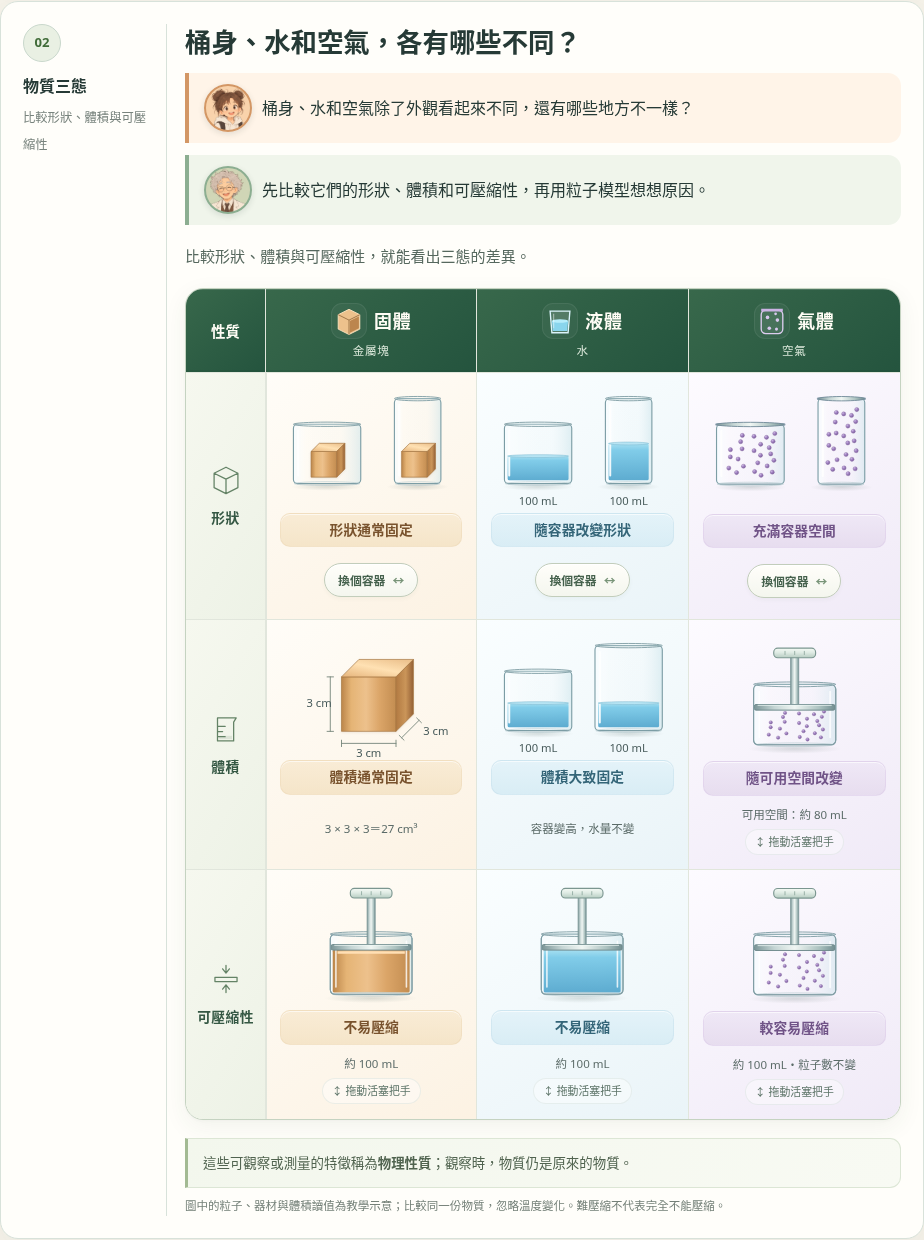
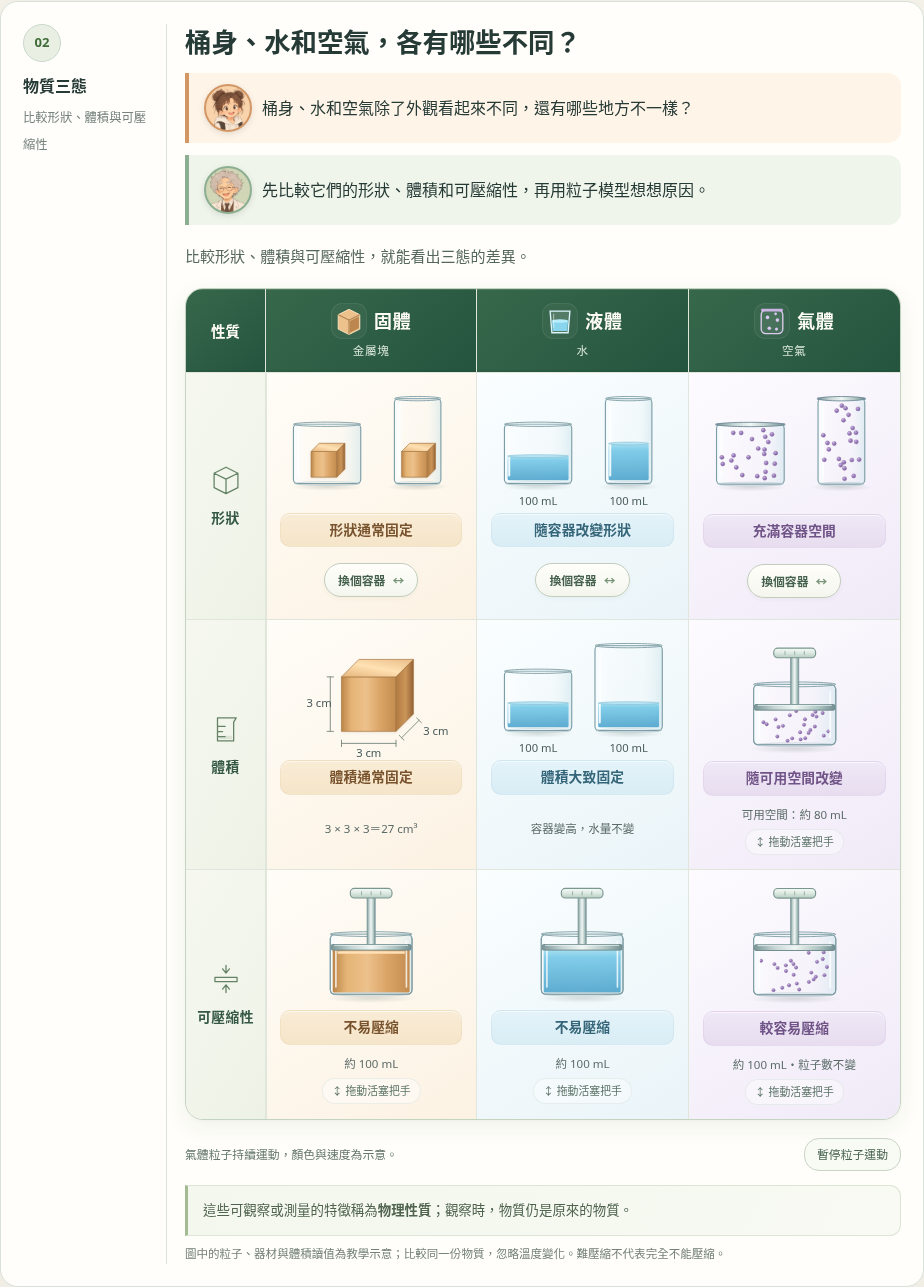
補上2.1四個氣體模型的持續粒子運動

diff --git a/units/2/parts/2.1/index.html b/units/2/parts/2.1/index.html
@@ -636,8 +636,8 @@
     #s2 .next-hint { border-left-color:#88ae86; background:#f4f7f1; color:#4c6255!important; }
     #s2 button:focus-visible,#s2 a:focus-visible,#s2 input:focus-visible { outline-color:#79b89a; }
   </style>
-  <link rel="stylesheet" href="assets/states-table.css?v=20261029-polish">
-  <script src="assets/states-table.js?v=20261029-polish" defer></script>
+  <link rel="stylesheet" href="assets/states-table.css?v=20261029-motion">
+  <script src="assets/states-table.js?v=20261029-motion" defer></script>
 </head>
 <body>
   <header class="shell masthead">
@@ -745,6 +745,7 @@
                 <colgroup><col class="sv-property-col"><col><col><col></colgroup>
                 <thead><tr><th scope="col">性質</th><th scope="col" class="sv-solid"><span class="sv-state-icon" aria-hidden="true"><svg viewBox="0 0 40 40"><path d="M8 13l12-6 12 6v16l-12 6-12-6z" fill="#edc18c" stroke="#ffe4bf"/><path d="M8 13l12 6 12-6M20 19v16" fill="none" stroke="#976e42"/><path d="M21 20l10-5v13l-10 5z" fill="#bc864e"/></svg></span><strong>固體</strong><small>金屬塊</small></th><th scope="col" class="sv-liquid"><span class="sv-state-icon" aria-hidden="true"><svg viewBox="0 0 40 40"><path d="M9 9h22l-2 24H11z" fill="#ffffff24" stroke="#dcf4fc" stroke-width="1.5"/><path d="M11 20h18l-1 11H12z" fill="#89d5ed"/><ellipse cx="20" cy="20" rx="9" ry="2" fill="#b6edfb"/><path d="M13 12v16" stroke="#fff" opacity=".6"/></svg></span><strong>液體</strong><small>水</small></th><th scope="col" class="sv-gas"><span class="sv-state-icon" aria-hidden="true"><svg viewBox="0 0 40 40"><rect x="8" y="8" width="24" height="26" rx="5" fill="#ffffff15" stroke="#ddccef" stroke-width="1.5"/><path d="M8 8h24" stroke="#cbb3e4" stroke-width="3"/><g fill="#d9c8ef"><circle cx="15" cy="16" r="2"/><circle cx="26" cy="19" r="2"/><circle cx="17" cy="28" r="2"/><circle cx="25" cy="29" r="1.7"/><circle cx="24" cy="12" r="1.5"/></g></svg></span><strong>氣體</strong><small>空氣</small></th></tr></thead><tbody><tr><th scope="row"><span class="sv-property-icon" aria-hidden="true"><svg viewBox="0 0 40 40"><path d="M6 12l14-7 14 7v17l-14 7-14-7zM6 12l14 7 14-7M20 19v17"/></svg></span>形狀</th><td class="sv-solid" data-visual-cell="solid.shape"><div class="sv-cell"><svg viewBox="0 0 240 160" role="img" aria-label="同一金屬塊放入兩種容器，形狀與大小保持相同" ><ellipse class="sv-shadow" cx="65" cy="127" rx="45" ry="5"/><ellipse class="sv-shadow" cx="178" cy="127" rx="39" ry="5"/><rect class="sv-glass" x="23.0" y="49" width="84" height="74" rx="5"/><g class="sv-cube"><path d="M45 83l32 0v32h-32z" fill="url(#sv-metal-front)"/><path d="M45 83l10.24 -10.24h32l-10.24 10.24z" fill="url(#sv-metal-top)"/><path d="M77 83l10.24 -10.24v32l-10.24 10.24z" fill="url(#sv-metal-side)"/></g><path class="sv-highlight" d="M29.0 57v56"/><ellipse class="sv-rim" cx="65.0" cy="49.0" rx="42.0" ry="2.7"/><ellipse class="sv-floor-line" cx="65.0" cy="123.0" rx="41.0" ry="2.3"/><g data-vessel-changing="solid"><rect class="sv-glass" x="149.0" y="17" width="58" height="106" rx="5"/><g class="sv-cube"><path d="M158 83l32 0v32h-32z" fill="url(#sv-metal-front)"/><path d="M158 83l10.24 -10.24h32l-10.24 10.24z" fill="url(#sv-metal-top)"/><path d="M190 83l10.24 -10.24v32l-10.24 10.24z" fill="url(#sv-metal-side)"/></g><path class="sv-highlight" d="M155.0 25v88"/><ellipse class="sv-rim" cx="178.0" cy="17.0" rx="29.0" ry="2.7"/><ellipse class="sv-floor-line" cx="178.0" cy="123.0" rx="28.0" ry="2.3"/></g></svg><strong class="sv-label">形狀通常固定</strong><div class="sv-controls"><button class="sv-action" type="button" data-change-vessel="solid">換個容器 <span aria-hidden="true">↔</span></button></div></div></td><td class="sv-liquid" data-visual-cell="liquid.shape"><div class="sv-cell"><svg viewBox="0 0 240 160" role="img" aria-label="同一份100毫升的水在寬杯水位較低，在窄杯水位較高" ><ellipse class="sv-shadow" cx="65" cy="127" rx="45" ry="5"/><ellipse class="sv-shadow" cx="178" cy="127" rx="39" ry="5"/><rect class="sv-glass" x="23.0" y="49" width="84" height="74" rx="5"/><rect class="sv-water" x="27.0" y="88.73684210526315" width="76" height="30.263157894736842" rx="2"/><path class="sv-surface" d="M27.0 88.73684210526315h76"/><path class="sv-highlight" d="M29.0 57v56"/><ellipse class="sv-rim" cx="65.0" cy="49.0" rx="42.0" ry="2.7"/><ellipse class="sv-floor-line" cx="65.0" cy="123.0" rx="41.0" ry="2.3"/><ellipse class="sv-meniscus" cx="65.0" cy="88.73684210526315" rx="38.0" ry="1.8"/><g data-vessel-changing="liquid"><rect class="sv-glass" x="149.0" y="17" width="58" height="106" rx="5"/><rect class="sv-water" x="153.0" y="73.0" width="50" height="46.0" rx="2"/><path class="sv-surface" d="M153.0 73.0h50"/><path class="sv-highlight" d="M155.0 25v88"/><ellipse class="sv-rim" cx="178.0" cy="17.0" rx="29.0" ry="2.7"/><ellipse class="sv-floor-line" cx="178.0" cy="123.0" rx="28.0" ry="2.3"/><ellipse class="sv-meniscus" cx="178.0" cy="73.0" rx="25.0" ry="1.8"/></g><text x="65" y="150" text-anchor="middle">100 mL</text><text x="178" y="150" text-anchor="middle">100 mL</text></svg><strong class="sv-label">隨容器改變形狀</strong><div class="sv-controls"><button class="sv-action" type="button" data-change-vessel="liquid">換個容器 <span aria-hidden="true">↔</span></button></div></div></td><td class="sv-gas" data-visual-cell="gas.shape"><div class="sv-cell"><svg viewBox="0 0 240 160" role="img" aria-label="同樣數量的氣體粒子分布於兩種密閉容器的整個空間" ><ellipse class="sv-shadow" cx="65" cy="127" rx="45" ry="5"/><ellipse class="sv-shadow" cx="178" cy="127" rx="39" ry="5"/><rect class="sv-glass" x="23.0" y="49" width="84" height="74" rx="5"/><path class="sv-highlight" d="M29.0 57v56"/><path class="sv-seal" d="M23.0 49h84"/><g data-shape-particles><circle class="sv-particle" cx="74.149" cy="96.632" r="2.6"/><circle class="sv-particle" cx="93.154" cy="69.968" r="2.6"/><circle class="sv-particle" cx="38.225" cy="103.118" r="2.6"/><circle class="sv-particle" cx="54.717" cy="79.262" r="2.6"/><circle class="sv-particle" cx="90.235" cy="85.532" r="2.6"/><circle class="sv-particle" cx="69.494" cy="63.758" r="2.6"/><circle class="sv-particle" cx="85.853" cy="100.508" r="2.6"/><circle class="sv-particle" cx="95.352" cy="60.242" r="2.6"/><circle class="sv-particle" cx="94.225" cy="93.536" r="2.6"/><circle class="sv-particle" cx="49.782" cy="91.940" r="2.6"/><circle class="sv-particle" cx="77.579" cy="87.278" r="2.6"/><circle class="sv-particle" cx="40.283" cy="80.294" r="2.6"/><circle class="sv-particle" cx="77.782" cy="73.598" r="2.6"/><circle class="sv-particle" cx="69.564" cy="81.554" r="2.6"/><circle class="sv-particle" cx="56.432" cy="100.862" r="2.6"/><circle class="sv-particle" cx="55.046" cy="62.618" r="2.6"/><circle class="sv-particle" cx="70.285" cy="107.486" r="2.6"/><circle class="sv-particle" cx="40.178" cy="89.282" r="2.6"/><circle class="sv-particle" cx="88.408" cy="77.810" r="2.6"/><circle class="sv-particle" cx="84.985" cy="65.012" r="2.6"/><circle class="sv-particle" cx="52.925" cy="70.346" r="2.6"/><circle class="sv-particle" cx="78.272" cy="112.166" r="2.6"/><circle class="sv-particle" cx="92.181" cy="108.158" r="2.6"/><circle class="sv-particle" cx="47.871" cy="108.704" r="2.6"/></g><ellipse class="sv-rim sv-rim-sealed" cx="65.0" cy="49.0" rx="42.0" ry="2.7"/><ellipse class="sv-floor-line" cx="65.0" cy="123.0" rx="41.0" ry="2.3"/><g data-vessel-changing="gas"><rect class="sv-glass" x="149.0" y="17" width="58" height="106" rx="5"/><path class="sv-highlight" d="M155.0 25v88"/><path class="sv-seal" d="M149.0 17h58"/><g data-shape-particles><circle class="sv-particle" cx="183.751" cy="86.302" r="2.6"/><circle class="sv-particle" cx="195.697" cy="45.418" r="2.6"/><circle class="sv-particle" cx="161.170" cy="96.248" r="2.6"/><circle class="sv-particle" cx="171.536" cy="59.668" r="2.6"/><circle class="sv-particle" cx="193.862" cy="69.282" r="2.6"/><circle class="sv-particle" cx="180.825" cy="35.896" r="2.6"/><circle class="sv-particle" cx="191.108" cy="92.246" r="2.6"/><circle class="sv-particle" cx="197.078" cy="30.504" r="2.6"/><circle class="sv-particle" cx="196.370" cy="81.555" r="2.6"/><circle class="sv-particle" cx="168.434" cy="79.108" r="2.6"/><circle class="sv-particle" cx="185.907" cy="71.960" r="2.6"/><circle class="sv-particle" cx="162.464" cy="61.251" r="2.6"/><circle class="sv-particle" cx="186.034" cy="50.984" r="2.6"/><circle class="sv-particle" cx="180.869" cy="63.183" r="2.6"/><circle class="sv-particle" cx="172.614" cy="92.788" r="2.6"/><circle class="sv-particle" cx="171.743" cy="34.148" r="2.6"/><circle class="sv-particle" cx="181.322" cy="102.945" r="2.6"/><circle class="sv-particle" cx="162.398" cy="75.032" r="2.6"/><circle class="sv-particle" cx="192.714" cy="57.442" r="2.6"/><circle class="sv-particle" cx="190.562" cy="37.818" r="2.6"/><circle class="sv-particle" cx="170.410" cy="45.997" r="2.6"/><circle class="sv-particle" cx="186.342" cy="110.121" r="2.6"/><circle class="sv-particle" cx="195.085" cy="103.976" r="2.6"/><circle class="sv-particle" cx="167.233" cy="104.813" r="2.6"/></g><ellipse class="sv-rim sv-rim-sealed" cx="178.0" cy="17.0" rx="29.0" ry="2.7"/><ellipse class="sv-floor-line" cx="178.0" cy="123.0" rx="28.0" ry="2.3"/></g></svg><strong class="sv-label">充滿容器空間</strong><div class="sv-controls"><button class="sv-action" type="button" data-change-vessel="gas">換個容器 <span aria-hidden="true">↔</span></button></div></div></td></tr><tr><th scope="row"><span class="sv-property-icon" aria-hidden="true"><svg viewBox="0 0 40 40"><path d="M10 7h22l-3 5v22H10V7zM10 17h9m-9 6h6m-6 6h9"/><path d="M12 28h15v4H12z" fill="currentColor" opacity=".15" stroke="none"/></svg></span>體積</th><td class="sv-solid" data-visual-cell="solid.volume"><div class="sv-cell"><svg viewBox="0 0 240 160" role="img" aria-label="金屬塊長寬高皆為3公分，體積27立方公分" ><g class="sv-cube"><path d="M83 56l68 0v68h-68z" fill="url(#sv-metal-front)"/><path d="M83 56l21.76 -21.76h68l-21.76 21.76z" fill="url(#sv-metal-top)"/><path d="M151 56l21.76 -21.76v68l-21.76 21.76z" fill="url(#sv-metal-side)"/></g><path class="sv-dimension" d="M69 56v68m-4-68h8m-8 68h8M83 139h68m-68-4v8m68-8v8"/><text x="55" y="94" text-anchor="middle">3 cm</text><text x="117" y="156" text-anchor="middle">3 cm</text><path class="sv-dimension" data-dimension="depth" d="M158 132l21.76-21.76M155 129l6 6M176.76 107.24l6 6"/><text x="185" y="128" data-dimension-label="depth">3 cm</text></svg><strong class="sv-label">體積通常固定</strong><div class="sv-controls"><span class="sv-value">3 × 3 × 3＝27 cm³</span></div></div></td><td class="sv-liquid" data-visual-cell="liquid.volume"><div class="sv-cell"><svg viewBox="0 0 240 160" role="img" aria-label="兩個等寬、不同高度的容器盛裝相同100毫升的水，水位相同，較高容器的上方空間更多" ><ellipse class="sv-shadow" cx="65" cy="127" rx="45" ry="5"/><ellipse class="sv-shadow" cx="178" cy="127" rx="45" ry="5"/><rect class="sv-glass" x="23.0" y="49" width="84" height="74" rx="5"/><rect class="sv-water" x="27.0" y="88.73684210526315" width="76" height="30.263157894736842" rx="2"/><path class="sv-surface" d="M27.0 88.73684210526315h76"/><path class="sv-highlight" d="M29.0 57v56"/><ellipse class="sv-rim" cx="65.0" cy="49.0" rx="42.0" ry="2.7"/><ellipse class="sv-floor-line" cx="65.0" cy="123.0" rx="41.0" ry="2.3"/><ellipse class="sv-meniscus" cx="65.0" cy="88.73684210526315" rx="38.0" ry="1.8"/><g data-vessel-static="liquid"><rect class="sv-glass" x="136" y="17" width="84" height="106" rx="5"/><rect class="sv-water" x="140" y="88.73684210526315" width="76" height="30.263157894736842" rx="2"/><path class="sv-surface" d="M140 88.73684210526315h76"/><path class="sv-highlight" d="M142 25v88"/><ellipse class="sv-rim" cx="178.0" cy="17.0" rx="42.0" ry="2.7"/><ellipse class="sv-floor-line" cx="178.0" cy="123.0" rx="41.0" ry="2.3"/><ellipse class="sv-meniscus" cx="178.0" cy="88.73684210526315" rx="38.0" ry="1.8"/></g><text x="65" y="150" text-anchor="middle">100 mL</text><text x="178" y="150" text-anchor="middle">100 mL</text></svg><strong class="sv-label">體積大致固定</strong><div class="sv-controls"><span class="sv-value">容器變高，水量不變</span></div></div></td><td class="sv-gas" data-visual-cell="gas.volume"><div class="sv-cell"><svg viewBox="0 0 240 160" role="img" aria-label="密閉氣缸的活塞可推拉，同一批24個粒子的可用空間隨之改變" data-piston="gas-volume" data-kind="gas" data-mode="volume"><ellipse class="sv-shadow" cx="120" cy="145" rx="58" ry="6"/><rect class="sv-glass" x="69" y="65" width="102" height="75" rx="6"/><g data-piston-fill><g data-piston-particles><circle class="sv-particle" cx="83" cy="111.875" r="2.8"/><circle class="sv-particle" cx="98" cy="111.875" r="2.8"/><circle class="sv-particle" cx="113" cy="111.875" r="2.8"/><circle class="sv-particle" cx="128" cy="111.875" r="2.8"/><circle class="sv-particle" cx="143" cy="111.875" r="2.8"/><circle class="sv-particle" cx="158" cy="111.875" r="2.8"/><circle class="sv-particle" cx="83" cy="117.625" r="2.8"/><circle class="sv-particle" cx="98" cy="117.625" r="2.8"/><circle class="sv-particle" cx="113" cy="117.625" r="2.8"/><circle class="sv-particle" cx="128" cy="117.625" r="2.8"/><circle class="sv-particle" cx="143" cy="117.625" r="2.8"/><circle class="sv-particle" cx="158" cy="117.625" r="2.8"/><circle class="sv-particle" cx="83" cy="123.375" r="2.8"/><circle class="sv-particle" cx="98" cy="123.375" r="2.8"/><circle class="sv-particle" cx="113" cy="123.375" r="2.8"/><circle class="sv-particle" cx="128" cy="123.375" r="2.8"/><circle class="sv-particle" cx="143" cy="123.375" r="2.8"/><circle class="sv-particle" cx="158" cy="123.375" r="2.8"/><circle class="sv-particle" cx="83" cy="129.125" r="2.8"/><circle class="sv-particle" cx="98" cy="129.125" r="2.8"/><circle class="sv-particle" cx="113" cy="129.125" r="2.8"/><circle class="sv-particle" cx="128" cy="129.125" r="2.8"/><circle class="sv-particle" cx="143" cy="129.125" r="2.8"/><circle class="sv-particle" cx="158" cy="129.125" r="2.8"/></g></g><ellipse class="sv-rim" cx="120" cy="65" rx="51" ry="3"/><path class="sv-barrel-light" d="M76 74v57M164 74v57"/><ellipse class="sv-floor-line" cx="120" cy="140" rx="48" ry="2.3"/><g data-piston-handle role="slider" tabindex="0" aria-label="氣體體積活塞" aria-valuemin="0" aria-valuemax="100" aria-valuenow="33" aria-orientation="vertical" transform="translate(0 100)"><rect class="sv-rod" x="115" y="-66" width="10" height="68" rx="3"/><rect class="sv-grip" x="94" y="-72" width="52" height="12" rx="5"/><rect class="sv-piston-face" x="70" y="-2" width="100" height="7" rx="2"/><path class="sv-grip-grooves" d="M108-68v4m12-4v4m12-4v4"/><path class="sv-piston-glint" d="M74-1h92"/><rect class="sv-hit" x="78" y="-79" width="84" height="88" fill="transparent"/></g><path class="sv-front" d="M69 70v64q0 6 6 6h90q6 0 6-6V70"/></svg><strong class="sv-label">隨可用空間改變</strong><div class="sv-controls"><output class="sv-value" data-piston-readout="gas-volume">可用空間：約 67 mL</output><span class="sv-gesture">↕ 拖動活塞把手</span></div></div></td></tr><tr><th scope="row"><span class="sv-property-icon" aria-hidden="true"><svg viewBox="0 0 40 40"><path d="M20 4v9m-4-5 4 5 4-5M20 36v-9m-4 5 4-5 4 5M7 18h26v5H7z"/></svg></span>可壓縮性</th><td class="sv-solid" data-visual-cell="solid.compress"><div class="sv-cell"><svg viewBox="0 0 240 160" role="img" aria-label="密閉活塞中的金屬塊，一般施力時體積幾乎不變" data-piston="solid-compress" data-kind="solid" data-mode="compress"><ellipse class="sv-shadow" cx="120" cy="145" rx="58" ry="6"/><rect class="sv-glass" x="69" y="65" width="102" height="75" rx="6"/><rect data-piston-fill x="72" y="82" width="96" height="56" rx="2" fill="url(#sv-metal-front)"/><path d="M78 88h84" stroke="#ffdfb4" stroke-width="3"/><ellipse class="sv-rim" cx="120" cy="65" rx="51" ry="3"/><path class="sv-barrel-light" d="M76 74v57M164 74v57"/><ellipse class="sv-floor-line" cx="120" cy="140" rx="48" ry="2.3"/><g data-piston-handle role="slider" tabindex="0" aria-label="固體壓縮活塞" aria-valuemin="0" aria-valuemax="100" aria-valuenow="0" aria-orientation="vertical" transform="translate(0 80)"><rect class="sv-rod" x="115" y="-66" width="10" height="68" rx="3"/><rect class="sv-grip" x="94" y="-72" width="52" height="12" rx="5"/><rect class="sv-piston-face" x="70" y="-2" width="100" height="7" rx="2"/><path class="sv-grip-grooves" d="M108-68v4m12-4v4m12-4v4"/><path class="sv-piston-glint" d="M74-1h92"/><rect class="sv-hit" x="78" y="-79" width="84" height="88" fill="transparent"/></g><path class="sv-front" d="M69 70v64q0 6 6 6h90q6 0 6-6V70"/></svg><strong class="sv-label">不易壓縮</strong><div class="sv-controls"><output class="sv-value" data-piston-readout="solid-compress">約 100 mL</output><span class="sv-gesture">↕ 拖動活塞把手</span></div></div></td><td class="sv-liquid" data-visual-cell="liquid.compress"><div class="sv-cell"><svg viewBox="0 0 240 160" role="img" aria-label="完全充水且沒有氣泡的密閉活塞，施力後水的體積幾乎不變" data-piston="liquid-compress" data-kind="liquid" data-mode="compress"><ellipse class="sv-shadow" cx="120" cy="145" rx="58" ry="6"/><rect class="sv-glass" x="69" y="65" width="102" height="75" rx="6"/><rect class="sv-water" data-piston-fill x="72" y="82" width="96" height="56" rx="2"/><ellipse class="sv-rim" cx="120" cy="65" rx="51" ry="3"/><path class="sv-barrel-light" d="M76 74v57M164 74v57"/><ellipse class="sv-floor-line" cx="120" cy="140" rx="48" ry="2.3"/><g data-piston-handle role="slider" tabindex="0" aria-label="液體壓縮活塞" aria-valuemin="0" aria-valuemax="100" aria-valuenow="0" aria-orientation="vertical" transform="translate(0 80)"><rect class="sv-rod" x="115" y="-66" width="10" height="68" rx="3"/><rect class="sv-grip" x="94" y="-72" width="52" height="12" rx="5"/><rect class="sv-piston-face" x="70" y="-2" width="100" height="7" rx="2"/><path class="sv-grip-grooves" d="M108-68v4m12-4v4m12-4v4"/><path class="sv-piston-glint" d="M74-1h92"/><rect class="sv-hit" x="78" y="-79" width="84" height="88" fill="transparent"/></g><path class="sv-front" d="M69 70v64q0 6 6 6h90q6 0 6-6V70"/></svg><strong class="sv-label">不易壓縮</strong><div class="sv-controls"><output class="sv-value" data-piston-readout="liquid-compress">約 100 mL</output><span class="sv-gesture">↕ 拖動活塞把手</span></div></div></td><td class="sv-gas" data-visual-cell="gas.compress"><div class="sv-cell"><svg viewBox="0 0 240 160" role="img" aria-label="密閉氣缸的活塞可推拉，同一批24個粒子的可用空間隨之改變" data-piston="gas-compress" data-kind="gas" data-mode="compress"><ellipse class="sv-shadow" cx="120" cy="145" rx="58" ry="6"/><rect class="sv-glass" x="69" y="65" width="102" height="75" rx="6"/><g data-piston-fill><g data-piston-particles><circle class="sv-particle" cx="83" cy="94.375" r="2.8"/><circle class="sv-particle" cx="98" cy="94.375" r="2.8"/><circle class="sv-particle" cx="113" cy="94.375" r="2.8"/><circle class="sv-particle" cx="128" cy="94.375" r="2.8"/><circle class="sv-particle" cx="143" cy="94.375" r="2.8"/><circle class="sv-particle" cx="158" cy="94.375" r="2.8"/><circle class="sv-particle" cx="83" cy="105.125" r="2.8"/><circle class="sv-particle" cx="98" cy="105.125" r="2.8"/><circle class="sv-particle" cx="113" cy="105.125" r="2.8"/><circle class="sv-particle" cx="128" cy="105.125" r="2.8"/><circle class="sv-particle" cx="143" cy="105.125" r="2.8"/><circle class="sv-particle" cx="158" cy="105.125" r="2.8"/><circle class="sv-particle" cx="83" cy="115.875" r="2.8"/><circle class="sv-particle" cx="98" cy="115.875" r="2.8"/><circle class="sv-particle" cx="113" cy="115.875" r="2.8"/><circle class="sv-particle" cx="128" cy="115.875" r="2.8"/><circle class="sv-particle" cx="143" cy="115.875" r="2.8"/><circle class="sv-particle" cx="158" cy="115.875" r="2.8"/><circle class="sv-particle" cx="83" cy="126.625" r="2.8"/><circle class="sv-particle" cx="98" cy="126.625" r="2.8"/><circle class="sv-particle" cx="113" cy="126.625" r="2.8"/><circle class="sv-particle" cx="128" cy="126.625" r="2.8"/><circle class="sv-particle" cx="143" cy="126.625" r="2.8"/><circle class="sv-particle" cx="158" cy="126.625" r="2.8"/></g></g><ellipse class="sv-rim" cx="120" cy="65" rx="51" ry="3"/><path class="sv-barrel-light" d="M76 74v57M164 74v57"/><ellipse class="sv-floor-line" cx="120" cy="140" rx="48" ry="2.3"/><g data-piston-handle role="slider" tabindex="0" aria-label="氣體壓縮活塞" aria-valuemin="0" aria-valuemax="100" aria-valuenow="0" aria-orientation="vertical" transform="translate(0 80)"><rect class="sv-rod" x="115" y="-66" width="10" height="68" rx="3"/><rect class="sv-grip" x="94" y="-72" width="52" height="12" rx="5"/><rect class="sv-piston-face" x="70" y="-2" width="100" height="7" rx="2"/><path class="sv-grip-grooves" d="M108-68v4m12-4v4m12-4v4"/><path class="sv-piston-glint" d="M74-1h92"/><rect class="sv-hit" x="78" y="-79" width="84" height="88" fill="transparent"/></g><path class="sv-front" d="M69 70v64q0 6 6 6h90q6 0 6-6V70"/></svg><strong class="sv-label">較容易壓縮</strong><div class="sv-controls"><output class="sv-value" data-piston-readout="gas-compress">約 100 mL</output><span class="sv-gesture">↕ 拖動活塞把手</span></div></div></td></tr></tbody></table>
             </div>
+            <div class="sv-motion-tools"><span>氣體粒子持續運動，顏色與速度為示意。</span><button type="button" class="sv-motion-toggle" data-gas-motion-toggle aria-pressed="false">暫停粒子運動</button></div>
             <p class="sv-note">這些可觀察或測量的特徵稱為<strong>物理性質</strong>；觀察時，物質仍是原來的物質。</p>
             <p class="sv-model-note">圖中的粒子、器材與體積讀值為教學示意；比較同一份物質，忽略溫度變化。難壓縮不代表完全不能壓縮。</p>
           </div>

diff --git a/units/2/parts/2.1/assets/states-table.js b/units/2/parts/2.1/assets/states-table.js
@@ -4,16 +4,83 @@
   const section = document.getElementById('s2');
   if (!section) return;
   const forms = [{ width:58, height:106 }, { width:98, height:64 }, { width:78, height:80 }];
-  // Fixed, irregular model positions avoid suggesting a crystal lattice for gas.
+  // Initial irregular positions; each particle then follows its own free-motion path.
   const gasPositions = [[0.6307, 0.6772], [0.9022, 0.2328], [0.1175, 0.7853], [0.3531, 0.3877], [0.8605, 0.4922], [0.5642, 0.1293], [0.7979, 0.7418], [0.9336, 0.0707], [0.9175, 0.6256], [0.2826, 0.599], [0.6797, 0.5213], [0.1469, 0.4049], [0.6826, 0.2933], [0.5652, 0.4259], [0.3776, 0.7477], [0.3578, 0.1103], [0.5755, 0.8581], [0.1454, 0.5547], [0.8344, 0.3635], [0.7855, 0.1502], [0.3275, 0.2391], [0.6896, 0.9361], [0.8883, 0.8693], [0.2553, 0.8784]];
+  const gasFields = [];
+  const fieldByGroup = new WeakMap();
+  function gasFieldFor(group, bounds) {
+    const existing = fieldByGroup.get(group);
+    if (existing) { existing.resize(bounds); return existing; }
+    let box = bounds;
+    const fieldIndex = gasFields.length;
+    const particles = [...group.querySelectorAll('.sv-particle')].map((node, i) => {
+      const radius = +node.getAttribute('r');
+      const angle = i * 2.39996323 + fieldIndex * .83;
+      const speed = 28 + (i * 7 % 13);
+      return { node, radius,
+        x:box.left + radius + gasPositions[i][0] * (box.right - box.left - radius * 2),
+        y:box.top + radius + gasPositions[i][1] * (box.bottom - box.top - radius * 2),
+        vx:Math.cos(angle) * speed, vy:Math.sin(angle) * speed };
+    });
+    function keepInside(p) {
+      const minX = box.left + p.radius, maxX = box.right - p.radius;
+      const minY = box.top + p.radius, maxY = box.bottom - p.radius;
+      if (p.x < minX) { p.x = minX; p.vx = Math.abs(p.vx); }
+      if (p.x > maxX) { p.x = maxX; p.vx = -Math.abs(p.vx); }
+      if (p.y < minY) { p.y = minY; p.vy = Math.abs(p.vy); }
+      if (p.y > maxY) { p.y = maxY; p.vy = -Math.abs(p.vy); }
+    }
+    function separateCollisions() {
+      for (let i = 0; i < particles.length; i++) for (let j = i + 1; j < particles.length; j++) {
+        const a = particles[i], b = particles[j];
+        const dx = b.x - a.x, dy = b.y - a.y, radius = a.radius + b.radius;
+        const distanceSquared = dx * dx + dy * dy;
+        if (distanceSquared >= radius * radius) continue;
+        const distance = Math.sqrt(distanceSquared);
+        const nx = distance > .0001 ? dx / distance : Math.cos(i + j);
+        const ny = distance > .0001 ? dy / distance : Math.sin(i + j);
+        const overlap = (radius - distance) / 2 + .005;
+        a.x -= nx * overlap; a.y -= ny * overlap;
+        b.x += nx * overlap; b.y += ny * overlap;
+        // Equal-mass elastic scattering changes direction without regenerating particles.
+        const relative = (b.vx - a.vx) * nx + (b.vy - a.vy) * ny;
+        if (relative < 0) {
+          a.vx += relative * nx; a.vy += relative * ny;
+          b.vx -= relative * nx; b.vy -= relative * ny;
+        }
+        keepInside(a); keepInside(b);
+      }
+    }
+    function render() {
+      particles.forEach(p => { p.node.setAttribute('cx',p.x.toFixed(3)); p.node.setAttribute('cy',p.y.toFixed(3)); });
+    }
+    const field = {
+      resize(next) {
+        if (['left','right','top','bottom'].every(key => box[key] === next[key])) return;
+        // Preserve each particle's current position within the changing space, not its seed.
+        for (const p of particles) {
+          const u = (p.x - box.left - p.radius) / (box.right - box.left - p.radius * 2);
+          const v = (p.y - box.top - p.radius) / (box.bottom - box.top - p.radius * 2);
+          p.x = next.left + p.radius + u * (next.right - next.left - p.radius * 2);
+          p.y = next.top + p.radius + v * (next.bottom - next.top - p.radius * 2);
+        }
+        box = next;
+        particles.forEach(keepInside); separateCollisions(); render();
+      },
+      step(dt) {
+        particles.forEach(p => { p.x += p.vx * dt; p.y += p.vy * dt; keepInside(p); });
+        separateCollisions(); render();
+      }
+    };
+    separateCollisions(); render();
+    fieldByGroup.set(group,field); gasFields.push(field);
+    return field;
+  }
   function layoutGasShape(group) {
     const box = group.parentElement.querySelector('.sv-glass');
     const x = +box.getAttribute('x'), y = +box.getAttribute('y');
     const width = +box.getAttribute('width'), height = +box.getAttribute('height');
-    group.querySelectorAll('.sv-particle').forEach((dot, i) => {
-      dot.setAttribute('cx', x + 7 + gasPositions[i][0] * (width - 14));
-      dot.setAttribute('cy', y + 7 + gasPositions[i][1] * (height - 14));
-    });
+    gasFieldFor(group,{ left:x + 4, top:y + 4, right:x + width - 4, bottom:y + height - 4 });
   }
   section.querySelectorAll('[data-shape-particles]').forEach(layoutGasShape);
   section.querySelectorAll('[data-change-vessel]').forEach(button => {
@@ -57,6 +124,7 @@
     const output = section.querySelector(`[data-piston-readout="${svg.dataset.piston}"]`);
     const dots = [...svg.querySelectorAll('.sv-particle')];
     dots.forEach(dot => dot.setAttribute('r', '2.1'));
+    const gasField = kind === 'gas' ? gasFieldFor(svg.querySelector('[data-piston-particles]'),{ left:76, top:84, right:164, bottom:138 }) : null;
     let compression = mode === 'volume' ? 100 / 3 : 0;
     function update(value) {
       compression = Math.max(0, Math.min(100, value));
@@ -69,10 +137,7 @@
       svg.dataset.volume = String(volume);
       svg.dataset.compression = String(kind === 'gas' ? compression : 0);
       if (kind === 'gas') {
-        dots.forEach((dot, i) => {
-          dot.setAttribute('cx', 78 + gasPositions[i][0] * 84);
-          dot.setAttribute('cy', y + 4 + gasPositions[i][1] * (140 - y - 8));
-        });
+        gasField.resize({ left:76, top:y + 4, right:164, bottom:138 });
         output.textContent = mode === 'volume' ? `可用空間：約 ${Math.round(volume)} mL` : `約 ${Math.round(volume)} mL・粒子數不變`;
       } else {
         const fill = svg.querySelector('[data-piston-fill]');
@@ -115,4 +180,35 @@
     });
 
   });
+  // Only animate while this section is on screen and the document is visible.
+  const reducedMotion = window.matchMedia('(prefers-reduced-motion: reduce)');
+  const toggle = section.querySelector('[data-gas-motion-toggle]');
+  let visible = true, paused = false, frame = null, previous = 0;
+  function tick(now) {
+    frame = null;
+    const dt = previous ? Math.min(.035,(now - previous) / 1000) : 0;
+    previous = now;
+    if (dt > 0) gasFields.forEach(field => field.step(dt * (reducedMotion.matches ? .4 : 1)));
+    frame = requestAnimationFrame(tick);
+  }
+  function syncMotion() {
+    const running = visible && !document.hidden && !paused;
+    section.dataset.gasMotion = running ? 'running' : 'paused';
+    if (running && frame === null) { previous = 0; frame = requestAnimationFrame(tick); }
+    else if (!running && frame !== null) { cancelAnimationFrame(frame); frame = null; previous = 0; }
+  }
+  toggle.addEventListener('click', () => {
+    paused = !paused;
+    toggle.setAttribute('aria-pressed', String(paused));
+    toggle.textContent = paused ? '繼續粒子運動' : '暫停粒子運動';
+    syncMotion();
+  });
+  document.addEventListener('visibilitychange', syncMotion);
+  if ('IntersectionObserver' in window) {
+    new IntersectionObserver(entries => {
+      visible = entries[0].isIntersecting; syncMotion();
+    },{ rootMargin:'120px' }).observe(section);
+  }
+  syncMotion();
+
 })();

diff --git a/units/2/parts/2.1/assets/states-table.css b/units/2/parts/2.1/assets/states-table.css
@@ -68,3 +68,8 @@
  #s2 .sv-scroll-hint { display:block; margin:8px 0 -7px; color:#697d6c; font-size:.74rem; }
 }
 @media(prefers-reduced-motion:reduce) { .states-visual-table .sv-action,.states-visual-table .sv-grip { transition:none; } }
+#s2 .sv-motion-tools { display:flex; flex-wrap:wrap; justify-content:space-between; align-items:center; gap:8px 14px; margin:12px 0; color:#64766c; font-size:.74rem; line-height:1.65; }
+#s2 .sv-motion-toggle { padding:6px 12px; border:1px solid #c9d5c5; border-radius:15px; background:#f8faf4; color:#49634f; font:inherit; cursor:pointer; }
+#s2 .sv-motion-toggle:hover { background:#eef4e8; }
+#s2 .sv-motion-toggle[aria-pressed="true"] { background:#e7f0e2; border-color:#91ac88; }
+#s2 .sv-motion-toggle:focus-visible { outline:3px solid #ac8038; outline-offset:3px; }

diff --git a/docs/reviews/unit-2.1-states-table/review.md b/docs/reviews/unit-2.1-states-table/review.md
@@ -53,3 +53,11 @@ CHROMIUM_PATH=/usr/bin/chromium node --test tests/unit-2.1-states-table.test.cjs
 表頭的三態與左側性質改用同一風格的小型向量圖示；細修深綠表頭、三態淡底色、細邊框、輕陰影、標籤、留白、字級及操作提示。三個壓縮格仍統一拖曳，固體／液體維持原位，氣體可壓縮；固體三個 3 cm、體積算式、液體體積列的等寬／不同高／同水位比較全部保留。換容器時，杯口、底緣及水面裝飾隨既有幾何一起更新，避免細節與容器錯位。
 
 更新後 8 組子測試與外層共 9 項通過，0 失敗、0 跳過。新增核對換容器後杯口半徑與高度、水面位置與水樣邊界一致；原有水量、粒子數、三維尺寸、滑鼠／鍵盤／觸控及五種寬度檢查均通過。已檢視桌機及手機畫面，文字、尺寸與操作未遮擋，無整頁水平溢出。`before-polish.png` 保留前版對照，`desktop.png`、`mobile.png`、`gas-compressed.png` 為最新結果；待使用者檢視。
+
+## 氣體粒子持續運動（2026-10-29）
+
+使用者指出氣體粒子不應全部靜止。先前只在換容器與拖曳活塞時重排靜態位置，已補上四個氣體圖解（形狀列兩容器、體積列及壓縮列）的持續運動。每個模型保留原有 24 個粒子，各自依速度向量前進，與邊界或其他粒子接觸時反射／散射；不以整群平移或固定位置抖動代替自由運動。
+
+換容器及壓縮時沿用同一批粒子與當前運動狀態，將當前位置映射進新的可用空間，粒子數不變且不穿出器壁。速度與顏色為教學示意，不對應真實分子尺度或溫度實測；本模型未模擬壓縮升溫。表格下方提供暫停／繼續，預設播放；減少動畫偏好下減速，離開此區或頁面不可見時停止運算，回來後從原狀態繼續。
+
+新增檢查實際追蹤四個模型的座標變化及連續 45 個畫面的邊界，確認每格都在動且各有 24 粒；核對暫停後位置不變、續播恢復、離開區塊停止及返回續播、最大壓縮後仍持續運動、手機與減少動畫偏好下仍可觀察運動。9 組子測試及外層共 10 項通過，0 失敗、0 跳過；原有尺寸、水位及活塞操作檢查亦通過。已更新截圖與測試日誌，待使用者檢視。

diff --git a/tests/README.md b/tests/README.md
@@ -295,4 +295,4 @@ node --test --test-concurrency=1 tests/unit-4.2-filtration.test.cjs tests/unit-4
 CHROMIUM_PATH=/usr/bin/chromium node --test tests/unit-2.1-states-table.test.cjs
 ```
 
-測試自行啟停 Python 靜態伺服器與 Chromium。檢查九格圖解預設可見、固體外形、液體等量與體積格等寬／同水位比較、換容器後杯口與水面對齊、氣體粒子數與邊界、格內活塞的滑鼠／鍵盤／觸控、固體與液體拖曳位置不變而氣體可壓縮、其他教學區塊保留、五種螢幕寬度及減少動畫設定。8 組子測試，連同外層共 9 項；`STATES_CAPTURE_DIR` 可指定截圖目錄。審閱紀錄見 `docs/reviews/unit-2.1-states-table/review.md`。
+測試自行啟停 Python 靜態伺服器與 Chromium。檢查九格圖解預設可見、固體外形、液體等量與體積格等寬／同水位比較、換容器後杯口與水面對齊、四個氣體模型持續運動、粒子數與連續邊界、暫停／續播及離開畫面停止、格內活塞的滑鼠／鍵盤／觸控、固體與液體拖曳位置不變而氣體可壓縮、其他教學區塊保留、五種螢幕寬度及減少動畫設定。9 組子測試，連同外層共 10 項；`STATES_CAPTURE_DIR` 可指定截圖目錄。審閱紀錄見 `docs/reviews/unit-2.1-states-table/review.md`。
